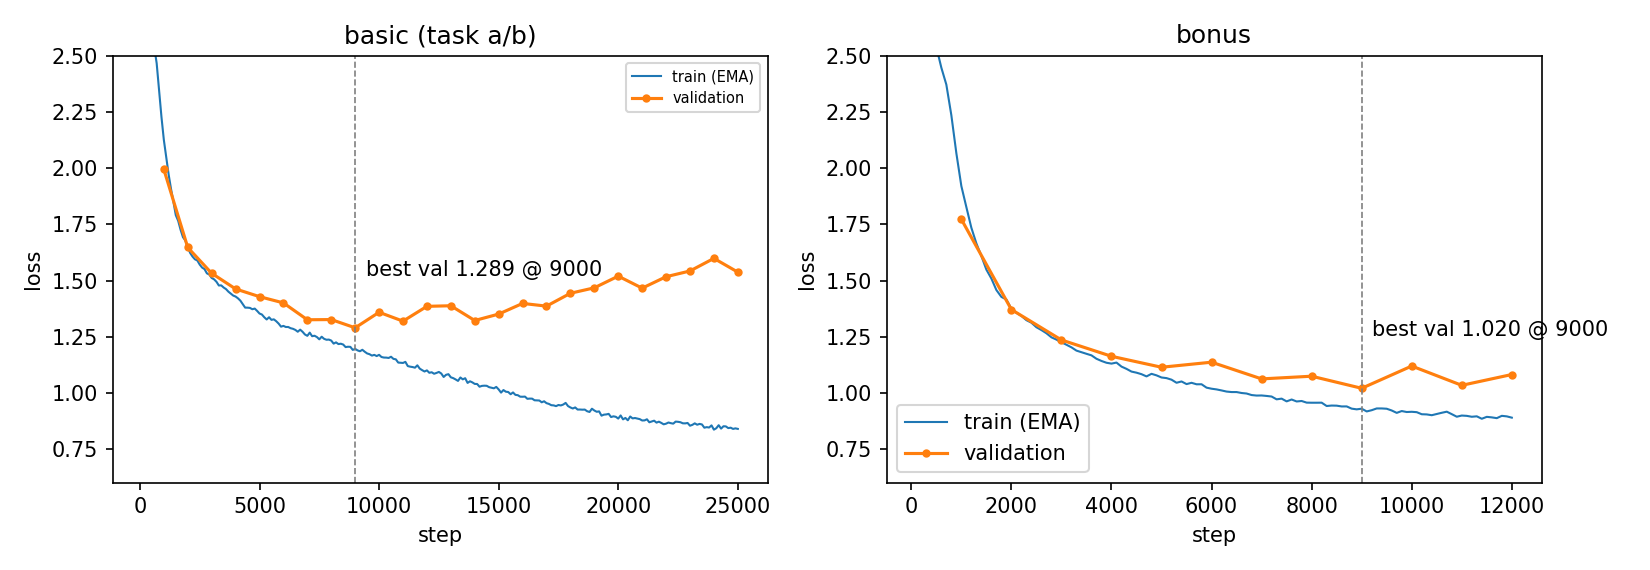
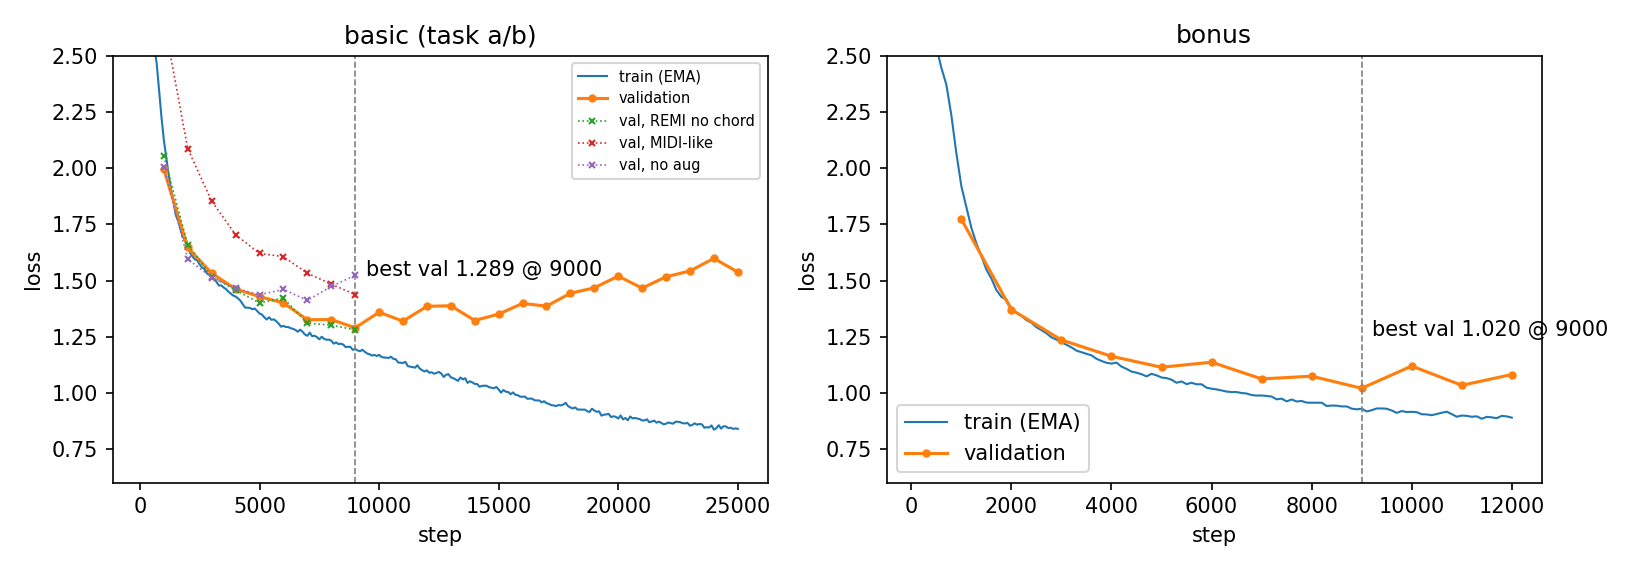
Add ablations, memorization and task b analyses; update report
- ablations: REMI w/o chord, MIDI-like representation, no transposition
  augmentation, decoding without grammar constraints, bonus w/o chord condition
- analysis.py: memorization (n-gram overlap with training set), task b
  prompt/continuation consistency, figures
- make_submission.py and README for the cloud-drive submission bundle
- report: confidence intervals, figures, task b best configs, ablation study,
  conclusions

diff --git a/code/make_submission.py b/code/make_submission.py
@@ -1,0 +1,41 @@
+"""Collect everything that goes to the cloud drive into ../submission (code, checkpoints, results)."""
+import pathlib
+import shutil
+
+ROOT = pathlib.Path(__file__).resolve().parent.parent
+SUB = ROOT / "submission"
+
+TASK_A = "a4_loss0.9_t1.0_p0.95"                      # best inference configuration of task a
+TASK_B = ["b1_t1.0_p0.95", "b2_t0.8_k10", "b3_t1.2_p0.98"]
+BONUS = "c2_t0.8_k10"                                  # best bonus configuration
+CKPTS = {"basic_loss0.9": "basic/loss_0.9",            # task a (a4)
+         "basic_loss1.2": "basic/loss_1.2",            # task b
+         "bonus": "bonus/best_val"}                    # bonus
+
+
+def copy(src, dst):
+    dst.parent.mkdir(parents=True, exist_ok=True)
+    shutil.copy2(src, dst)
+
+
+shutil.rmtree(SUB, ignore_errors=True)
+for f in sorted((ROOT / "code").glob("*.py")):
+    copy(f, SUB / "code" / f.name)
+for name, src in CKPTS.items():
+    for f in ["config.json", "generation_config.json", "model.safetensors"]:
+        copy(ROOT / "ckpt" / src / f, SUB / "checkpoints" / name / f)
+
+for f in sorted((ROOT / "outputs/task_a" / TASK_A).glob("*.*")):
+    if f.suffix in (".mid", ".wav"):
+        copy(f, SUB / "results/task_a" / f.name)
+for cfg in TASK_B:
+    for f in sorted((ROOT / "outputs/task_b" / cfg).glob("*.*")):
+        if f.suffix in (".mid", ".wav"):
+            copy(f, SUB / "results/task_b" / f.stem / f"{cfg.split('_')[0]}{f.suffix}")
+for f in sorted((ROOT / "outputs/bonus" / BONUS).glob("*.*")):
+    if f.suffix in (".mid", ".wav"):
+        copy(f, SUB / "results/bonus" / f.name)
+copy(ROOT / "submission_README.md", SUB / "README.md")
+n = sum(1 for _ in SUB.rglob("*") if _.is_file())
+size = sum(f.stat().st_size for f in SUB.rglob("*") if f.is_file()) / 2 ** 20
+print(f"{n} files, {size:.0f} MB in {SUB}")

diff --git a/submission_README.md b/submission_README.md
@@ -1,0 +1,61 @@
+# HW2 – Symbolic Music Generation (POP909)
+
+Model: GPT-2 (8 layers, 8 heads, d_model 512, context 1536, 26.2M parameters) trained from scratch on
+the POP909 training set, REMI tokens with chord / tempo / meter tokens. See the report for details.
+
+## Folder structure
+
+```
+code/                    source code (tokenization, training, inference, evaluation)
+checkpoints/
+  basic_loss0.9/         task a model (train loss 0.90) – used for the submitted task a results
+  basic_loss1.2/         task b model (train loss 1.20, best validation loss)
+  bonus/                 bonus accompaniment model
+results/
+  task_a/                20 × (.mid + .wav), 32 bars, best configuration a4: T=1.0, top-p 0.95
+  task_b/<prompt>/       b1.mid/.wav, b2.mid/.wav, b3.mid/.wav (8-bar prompt + 24 generated bars)
+  bonus/                 001–010 .mid/.wav: MELODY (given) + generated PIANO, 16 bars, T=0.8, top-k 10
+```
+
+## Task b configurations and best configuration per prompt
+
+| Config | Checkpoint | Temperature | Top-k | Top-p |
+|---|---|---|---|---|
+| b1 | basic_loss1.2 | 1.0 | – | 0.95 |
+| b2 | basic_loss1.2 | 0.8 | 10 | – |
+| b3 | basic_loss1.2 | 1.2 | – | 0.98 |
+
+| Prompt | Best config |
+|---|---|
+| 001 | **b1** |
+| 002 | **b1** |
+| 003 | **b1** |
+
+## Inference
+
+Requirements: Python 3.10+, `torch`, `transformers`, `pretty_midi`, `numpy` (and `pyfluidsynth`,
+`soundfile` + FluidSynth / FluidR3_GM.sf2 for wav rendering). On Windows set `KMP_DUPLICATE_LIB_OK=TRUE`.
+
+```
+cd code
+# task a: 20 unconditional pieces, 32 bars
+python generate.py uncond --ckpt ../checkpoints/basic_loss0.9 --out ../out/task_a --n 20 --temp 1.0 --top_p 0.95
+
+# task b: continue each prompt (folder with <id>.mid, beat_midi.txt, chord_midi.txt) by 24 bars
+python generate.py continue --ckpt ../checkpoints/basic_loss1.2 --prompt_dir <POP909>/prompts/basic-b --out ../out/task_b/b1 --temp 1.0 --top_p 0.95
+python generate.py continue --ckpt ../checkpoints/basic_loss1.2 --prompt_dir <POP909>/prompts/basic-b --out ../out/task_b/b2 --temp 0.8 --top_k 10
+python generate.py continue --ckpt ../checkpoints/basic_loss1.2 --prompt_dir <POP909>/prompts/basic-b --out ../out/task_b/b3 --temp 1.2 --top_p 0.98
+
+# bonus: piano accompaniment for each melody prompt (melody.mid, beat_midi.txt, chord_midi.txt)
+python generate.py bonus --ckpt ../checkpoints/bonus --prompt_dir <POP909>/prompts/bonus --out ../out/bonus --temp 0.8 --top_k 10
+
+# render .mid -> .wav (expects FluidSynth under tools/fs and FluidR3_GM.sf2 under tools/sf)
+python render.py ../out
+```
+
+Training (needs the POP909 training set under `POP909/training`):
+```
+python music_tok.py
+python train.py --data ../data/basic_sequences.json --out ../ckpt/basic --batch 8 --steps 25000
+python train.py --data ../data/bonus_sequences.json --out ../ckpt/bonus --batch 8 --steps 12000 --save_losses ""
+```
